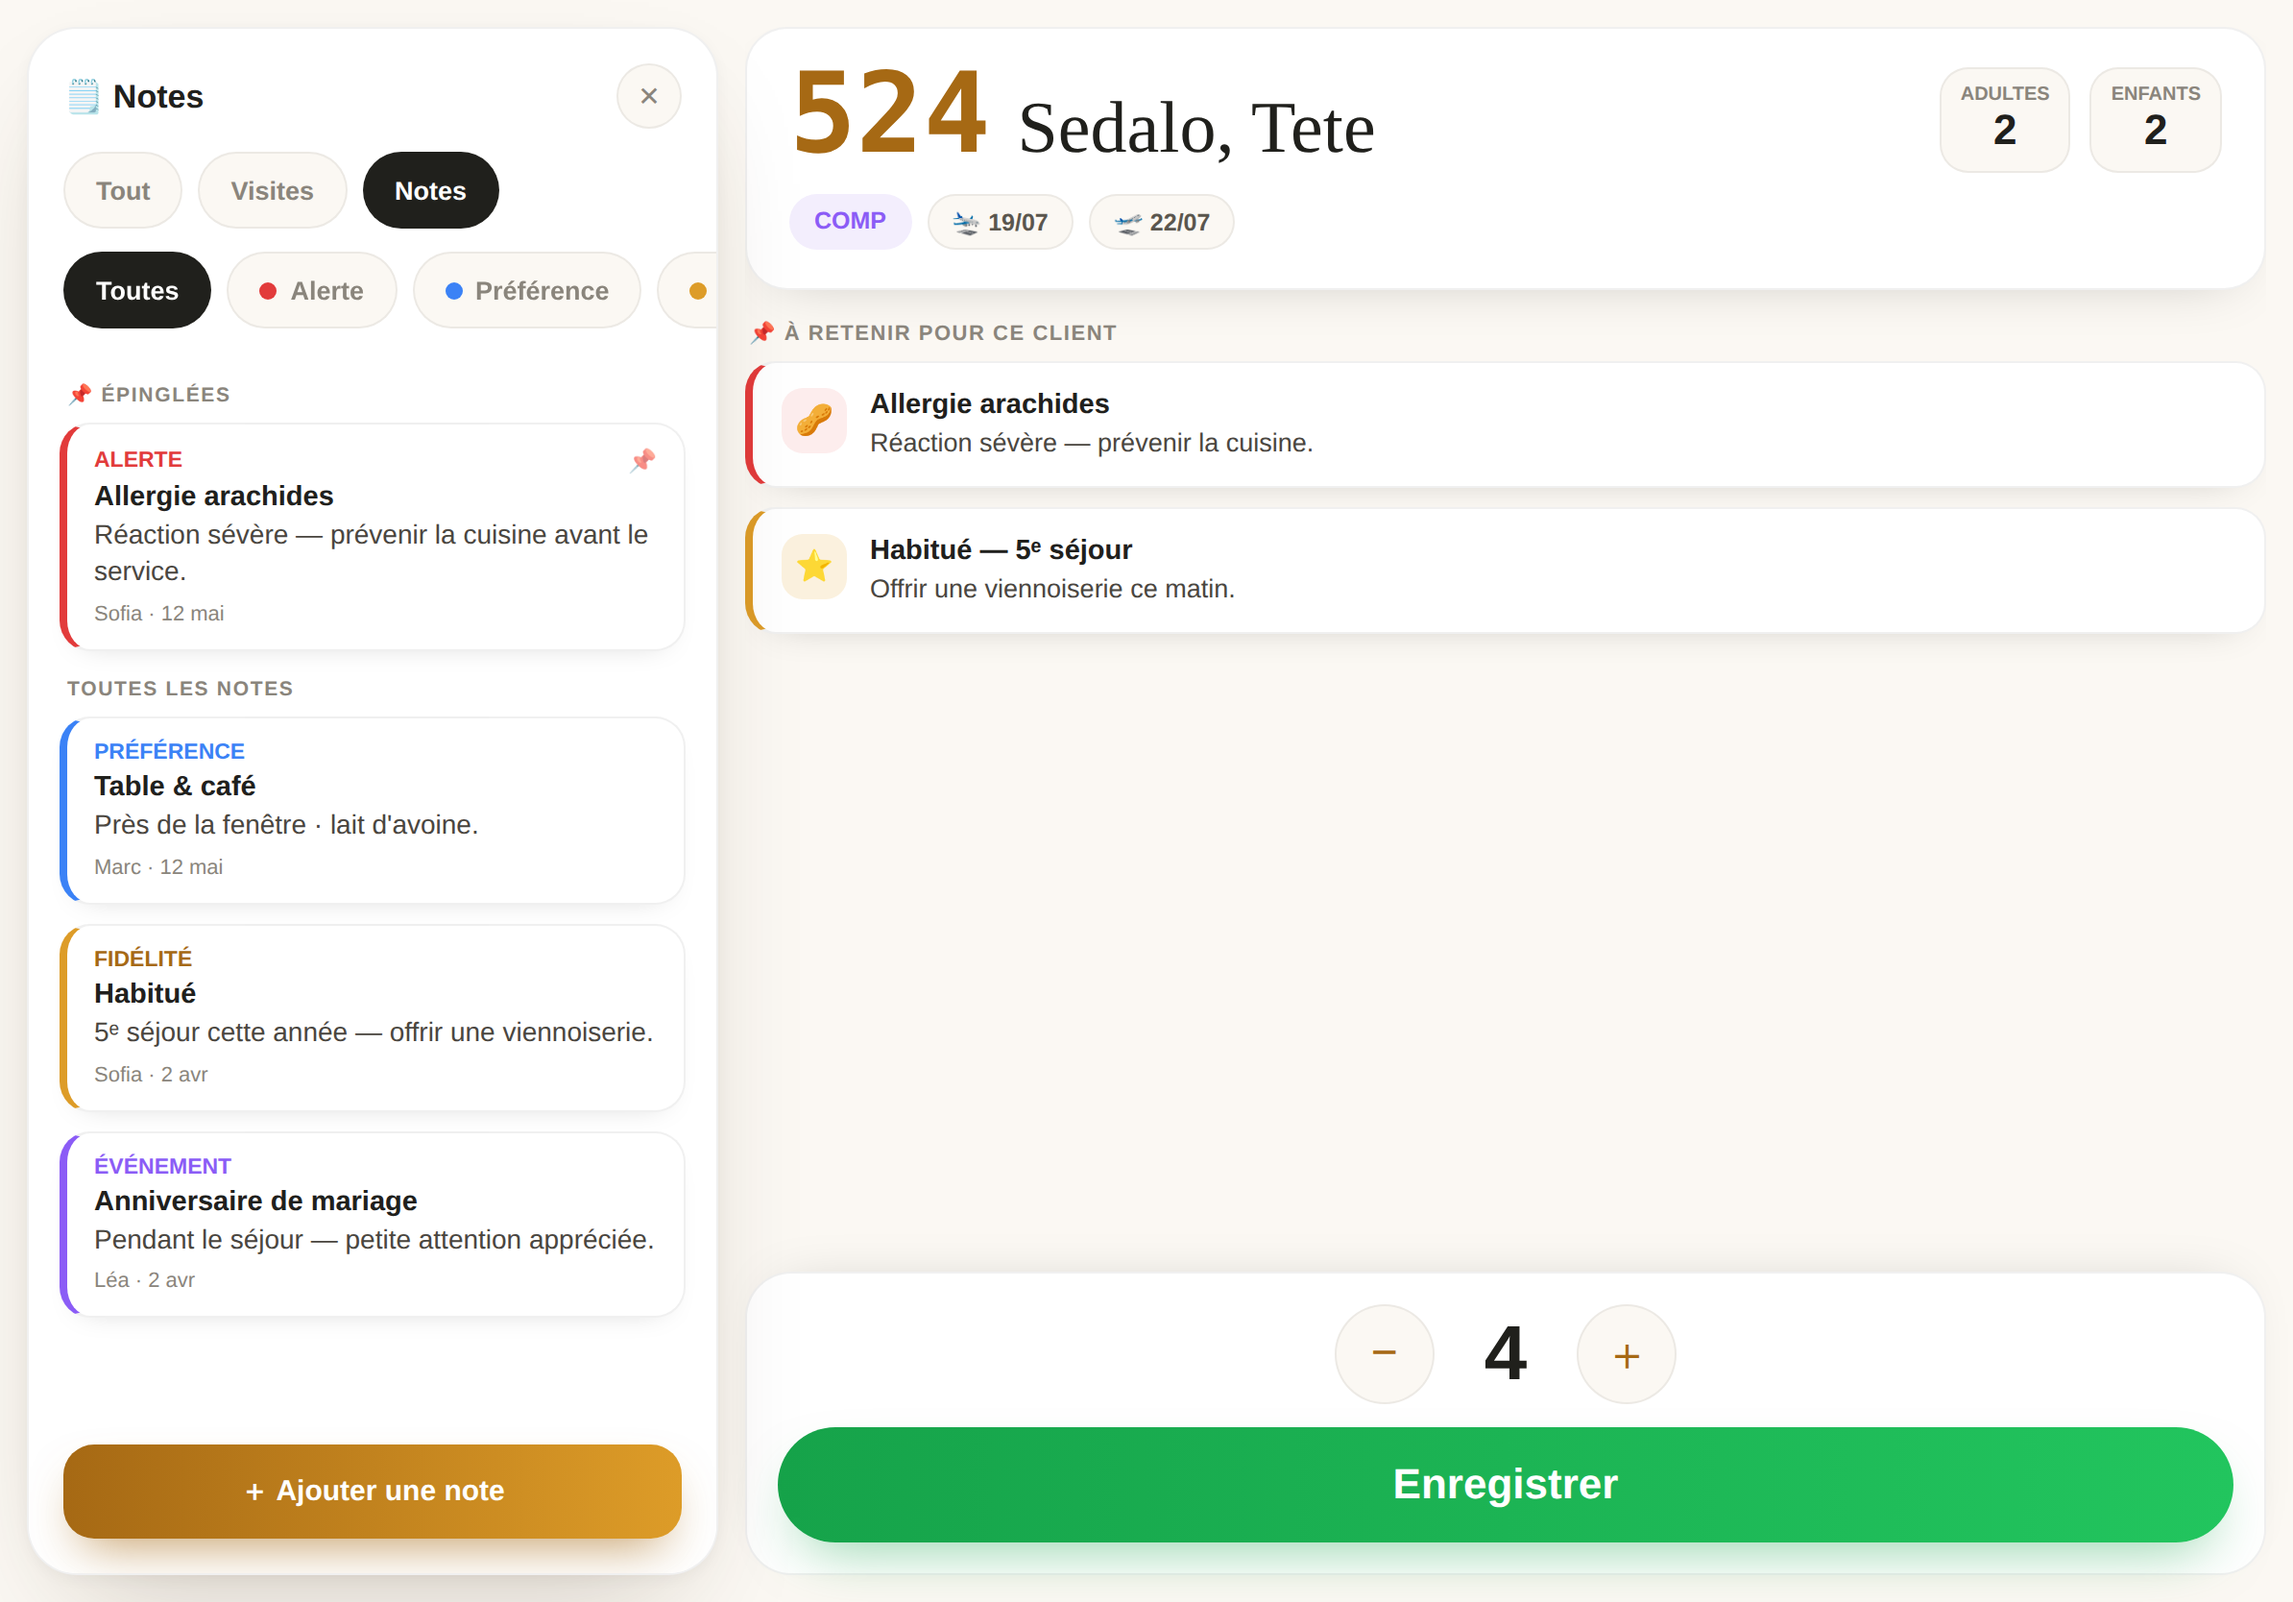
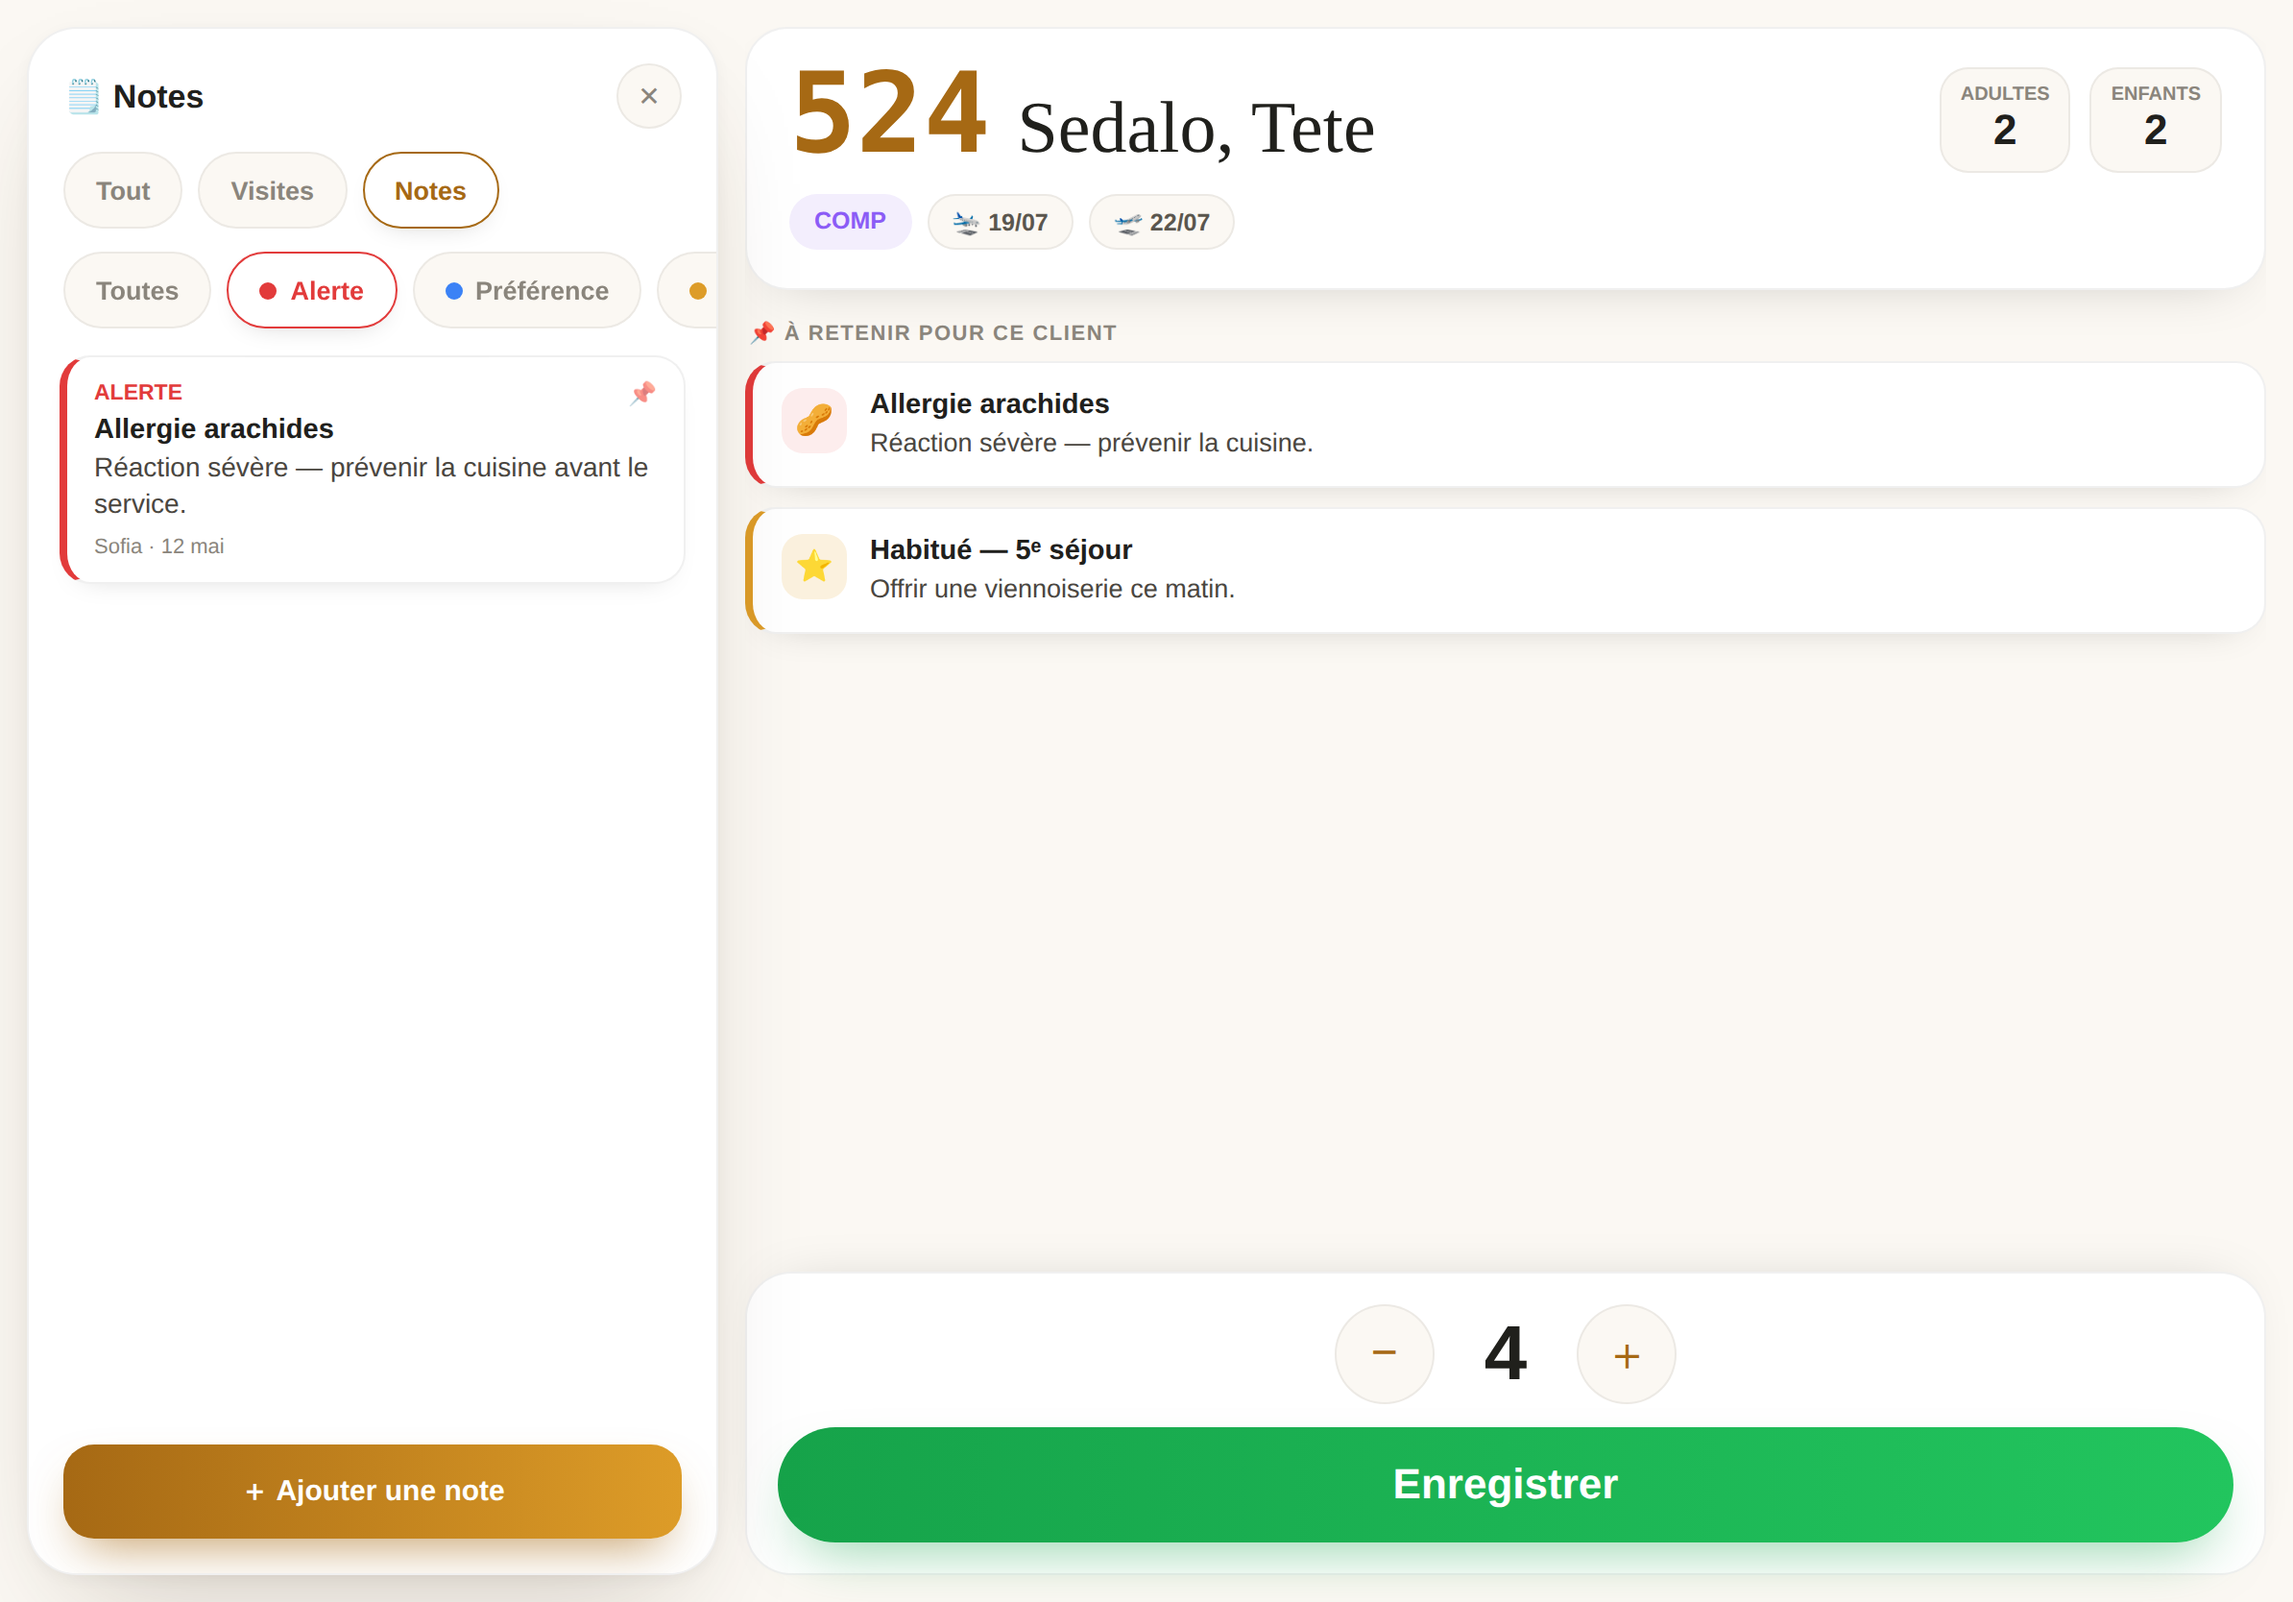
Notes mockup: gold/light selected chips + edit & delete flow
- Selected chip is now a light gold (tabs) / own-tone (filters) outline
  instead of a heavy solid pill, so it stays calm and on-brand.
- Notes are tappable to reopen the modal in edit mode (prefilled), with
  a light-red Supprimer action; add-only becomes add/edit/delete.

Claude-Session: https://claude.ai/code/session_01PvjN1yrwGssKpuvjG4vcfR

diff --git a/mockups/notes-flow.html b/mockups/notes-flow.html
@@ -29,8 +29,7 @@
   .chip{flex:none;height:40px;display:inline-flex;align-items:center;gap:7px;padding:0 16px;border-radius:999px;
     border:1px solid var(--line);background:var(--bg);color:var(--muted);font-size:13.5px;font-weight:800;white-space:nowrap}
   .chip .dot{width:9px;height:9px;border-radius:50%}
-  .chip.on{background:var(--ink);color:#fff;border-color:transparent}
-  .chip.on .dot{outline:2px solid rgba(255,255,255,.35)}
+  .chip.on{background:var(--card);color:var(--c,var(--gold));border:1.5px solid var(--c,var(--gold));box-shadow:0 5px 14px -8px rgba(0,0,0,.22)}
 
   .list{flex:1;overflow-y:auto;padding:2px 16px 118px}
   .sect{font-size:10.5px;letter-spacing:.08em;text-transform:uppercase;color:var(--muted);margin:14px 4px 8px;font-weight:800;display:flex;align-items:center;gap:6px}
@@ -121,6 +120,7 @@
   .qhint{font-size:12px;color:var(--muted);font-weight:700}
   .done{margin-left:auto;border:0;border-radius:999px;padding:13px 30px;font-weight:900;font-size:15px;color:#fff;background:linear-gradient(90deg,var(--gold),var(--gold-l));box-shadow:0 12px 24px -10px rgba(166,105,20,.6)}
   .done[disabled]{opacity:.38;box-shadow:none}
+  .delbtn{border:1px solid var(--tint-alerte);background:var(--tint-alerte);color:var(--alerte);border-radius:999px;padding:11px 16px;font-weight:800;font-size:13px}
 </style>
 </head>
 <body>
@@ -138,11 +138,11 @@
     <!-- Notes filters — identical chip size, light tints -->
     <div class="chiprow" id="filters">
       <button class="chip on" data-f="all">Toutes</button>
-      <button class="chip" data-f="alerte"><span class="dot" style="background:var(--alerte)"></span>Alerte</button>
-      <button class="chip" data-f="pref"><span class="dot" style="background:var(--pref)"></span>Préférence</button>
-      <button class="chip" data-f="fid"><span class="dot" style="background:var(--fid)"></span>Fidélité</button>
-      <button class="chip" data-f="event"><span class="dot" style="background:var(--event)"></span>Événement</button>
-      <button class="chip" data-f="info"><span class="dot" style="background:var(--info)"></span>Info</button>
+      <button class="chip" data-f="alerte" style="--c:var(--alerte)"><span class="dot" style="background:var(--alerte)"></span>Alerte</button>
+      <button class="chip" data-f="pref" style="--c:var(--pref)"><span class="dot" style="background:var(--pref)"></span>Préférence</button>
+      <button class="chip" data-f="fid" style="--c:var(--gold)"><span class="dot" style="background:var(--fid)"></span>Fidélité</button>
+      <button class="chip" data-f="event" style="--c:var(--event)"><span class="dot" style="background:var(--event)"></span>Événement</button>
+      <button class="chip" data-f="info" style="--c:#6b7076"><span class="dot" style="background:var(--info)"></span>Info</button>
     </div>
 
     <div class="list" id="list">
@@ -212,7 +212,7 @@
 <div class="scrim" id="scrim" onclick="if(event.target===this)closeModal()">
   <div class="modal" role="dialog" aria-label="Nouvelle note">
     <div class="mhead">
-      <div class="t">Nouvelle note<b>ch. 524 · Sedalo, Tete</b></div>
+      <div class="t"><span id="mtitle">Nouvelle note</span><b>ch. 524 · Sedalo, Tete</b></div>
       <div class="r">
         <button class="pinbtn" id="pinbtn" onclick="togglePin()"><span>📌</span>Épingler</button>
         <button class="xbtn" onclick="closeModal()">✕</button>
@@ -232,7 +232,8 @@
     <textarea class="bodyin" id="body" placeholder="Écrire la note…"></textarea>
 
     <div class="mfoot">
-      <span class="qhint">⌨ Clavier du iPad</span>
+      <button class="delbtn" id="delbtn" onclick="deleteNote()" style="display:none">🗑 Supprimer</button>
+      <span class="qhint" id="qhint">⌨ Clavier du iPad</span>
       <button class="done" id="done" onclick="saveNote()">Terminé</button>
     </div>
   </div>
@@ -240,31 +241,58 @@
 
 <script>
   var LABEL={alerte:"ALERTE",pref:"PRÉFÉRENCE",fid:"FIDÉLITÉ",event:"ÉVÉNEMENT",info:"INFO"};
-  var cur="info", pinned=false;
-  document.getElementById('tones').addEventListener('click',function(e){
-    var b=e.target.closest('.tone'); if(!b)return; cur=b.dataset.c;
-    [].forEach.call(this.children,function(c){c.classList.toggle('on',c===b);});
-  });
-  function togglePin(){pinned=!pinned;document.getElementById('pinbtn').classList.toggle('on',pinned);}
+  var cur="info", pinned=false, editing=null;
+  function setTone(c){cur=c;[].forEach.call(document.querySelectorAll('#tones .tone'),function(t){t.classList.toggle('on',t.dataset.c===c);});}
+  document.getElementById('tones').addEventListener('click',function(e){var b=e.target.closest('.tone');if(b)setTone(b.dataset.c);});
+  function setPin(v){pinned=v;document.getElementById('pinbtn').classList.toggle('on',pinned);}
+  function togglePin(){setPin(!pinned);}
   function syncDone(){document.getElementById('done').disabled=!(document.getElementById('title').value.trim()||document.getElementById('body').value.trim());}
   document.getElementById('title').addEventListener('input',syncDone);
   document.getElementById('body').addEventListener('input',syncDone);
-  function openModal(){document.getElementById('scrim').classList.add('on');syncDone();setTimeout(function(){document.getElementById('title').focus();},260);}
+
+  function openModal(){ // new note
+    editing=null;
+    document.getElementById('mtitle').textContent="Nouvelle note";
+    document.getElementById('delbtn').style.display="none";
+    document.getElementById('title').value="";document.getElementById('body').value="";
+    setTone("info");setPin(false);
+    show();setTimeout(function(){document.getElementById('title').focus();},260);
+  }
+  function editNote(el){ // tap a note to edit it
+    editing=el;
+    document.getElementById('mtitle').textContent="Modifier la note";
+    document.getElementById('delbtn').style.display="";
+    document.getElementById('title').value=(el.querySelector('.ttl')||{}).textContent||"";
+    document.getElementById('body').value=(el.querySelector('.body')||{}).textContent||"";
+    setTone(el.dataset.cat);setPin(el.dataset.pin==="1");
+    show();
+  }
+  function show(){document.getElementById('scrim').classList.add('on');syncDone();}
   function closeModal(){document.getElementById('scrim').classList.remove('on');}
-  function saveNote(){
-    var ttl=document.getElementById('title').value.trim(), bd=document.getElementById('body').value.trim();
-    if(!ttl&&!bd)return;
-    var n=document.createElement('div'); n.className="note "+cur; n.dataset.cat=cur; n.dataset.pin=pinned?"1":"0";
-    n.innerHTML='<div class="top"><span class="sit">'+LABEL[cur]+'</span>'+(pinned?'<span class="pin">📌</span>':'')+'</div>'+
+
+  function noteHTML(ttl,bd){
+    return '<div class="top"><span class="sit">'+LABEL[cur]+'</span>'+(pinned?'<span class="pin">📌</span>':'')+'</div>'+
       (ttl?'<div class="ttl">'+ttl.replace(/</g,"&lt;")+'</div>':'')+
       (bd?'<div class="body">'+bd.replace(/</g,"&lt;")+'</div>':'')+
       '<div class="meta">vous · à l\'instant</div>';
-    var list=document.getElementById('list');
-    var anchor=pinned?list.children[1]:null;
-    if(anchor)list.insertBefore(n,anchor); else list.appendChild(n);
-    document.getElementById('title').value="";document.getElementById('body').value="";
+  }
+  function saveNote(){
+    var ttl=document.getElementById('title').value.trim(), bd=document.getElementById('body').value.trim();
+    if(!ttl&&!bd)return;
+    if(editing){
+      editing.className="note "+cur;editing.dataset.cat=cur;editing.dataset.pin=pinned?"1":"0";
+      editing.innerHTML=noteHTML(ttl,bd);editing.onclick=function(){editNote(editing);};
+    }else{
+      var n=document.createElement('div');n.className="note "+cur;n.dataset.cat=cur;n.dataset.pin=pinned?"1":"0";
+      n.innerHTML=noteHTML(ttl,bd);n.onclick=(function(el){return function(){editNote(el);};})(n);
+      var list=document.getElementById('list');
+      if(pinned)list.insertBefore(n,list.children[1]); else list.appendChild(n);
+    }
     closeModal();
   }
+  function deleteNote(){ if(editing){editing.remove();editing=null;} closeModal(); }
+  // make existing notes editable
+  [].forEach.call(document.querySelectorAll('#list .note'),function(el){el.style.cursor="pointer";el.onclick=function(){editNote(el);};});
   document.getElementById('filters').addEventListener('click',function(e){
     var b=e.target.closest('.chip'); if(!b)return;
     [].forEach.call(this.children,function(c){c.classList.toggle('on',c===b);});
